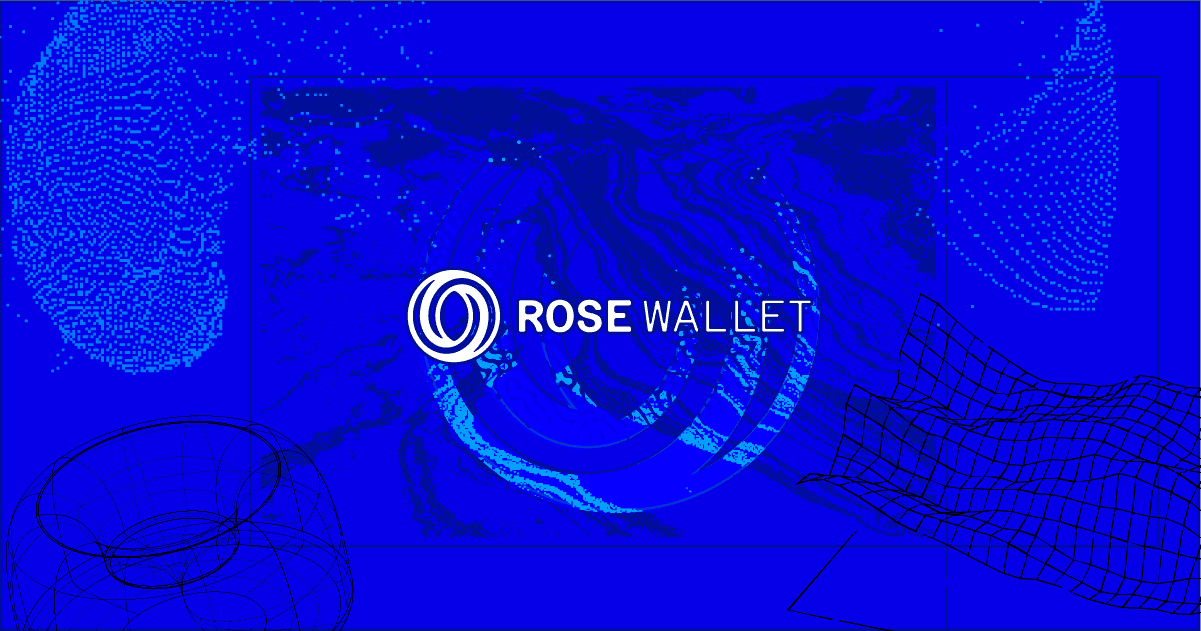
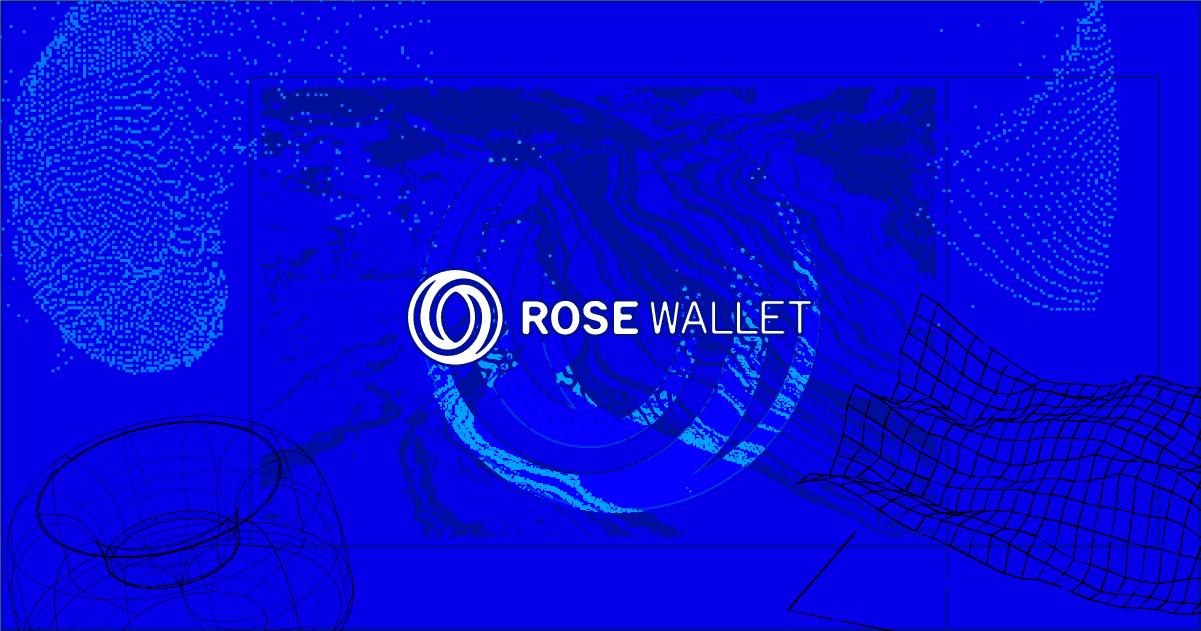
Update brand assets

diff --git a/src/app/components/Sidebar/index.tsx b/src/app/components/Sidebar/index.tsx
@@ -25,8 +25,8 @@ import { Link, NavLink, useNavigate, useLocation } from 'react-router-dom'
 import { Language } from '../../../styles/theme/icons/language/Language'
 import { useParaTimesNavigation } from 'app/pages/ParaTimesPage/useParaTimesNavigation'
 import { ThemeSwitcher } from '../ThemeSwitcher'
-import walletBlueLogotype from '../../../../public/Rose Wallet Logo Blue cropped.svg'
-import walletWhiteLogotype from '../../../../public/Rose Wallet Logo White cropped.svg'
+import walletBlueLogotype from '../../../../public/Rose Wallet Blue.svg'
+import walletWhiteLogotype from '../../../../public/Rose Wallet White.svg'
 import { languageLabels } from '../../../locales/i18n'
 import { selectIsLockableOrCloseable } from 'app/state/selectIsLockableOrCloseable'
 import { persistActions } from 'app/state/persist'

diff --git a/src/app/components/Persist/LoginModalLayout.tsx b/src/app/components/Persist/LoginModalLayout.tsx
@@ -3,8 +3,8 @@ import { ResponsiveLayer } from '../ResponsiveLayer'
 import React, { useContext } from 'react'
 import { Header } from 'app/components/Header'
 import { Navigation } from '../Sidebar'
-import walletBlueLogotype from '../../../../public/Rose Wallet Logo Blue cropped.svg'
-import walletWhiteLogotype from '../../../../public/Rose Wallet Logo White cropped.svg'
+import walletBlueLogotype from '../../../../public/Rose Wallet Blue.svg'
+import walletWhiteLogotype from '../../../../public/Rose Wallet White.svg'
 import { ThemeContext } from 'styled-components'
 
 export function LoginModalLayout(props: {

diff --git a/.changelog/1924.trivial.md b/.changelog/1924.trivial.md
@@ -1,0 +1,1 @@
+Update brand assets
